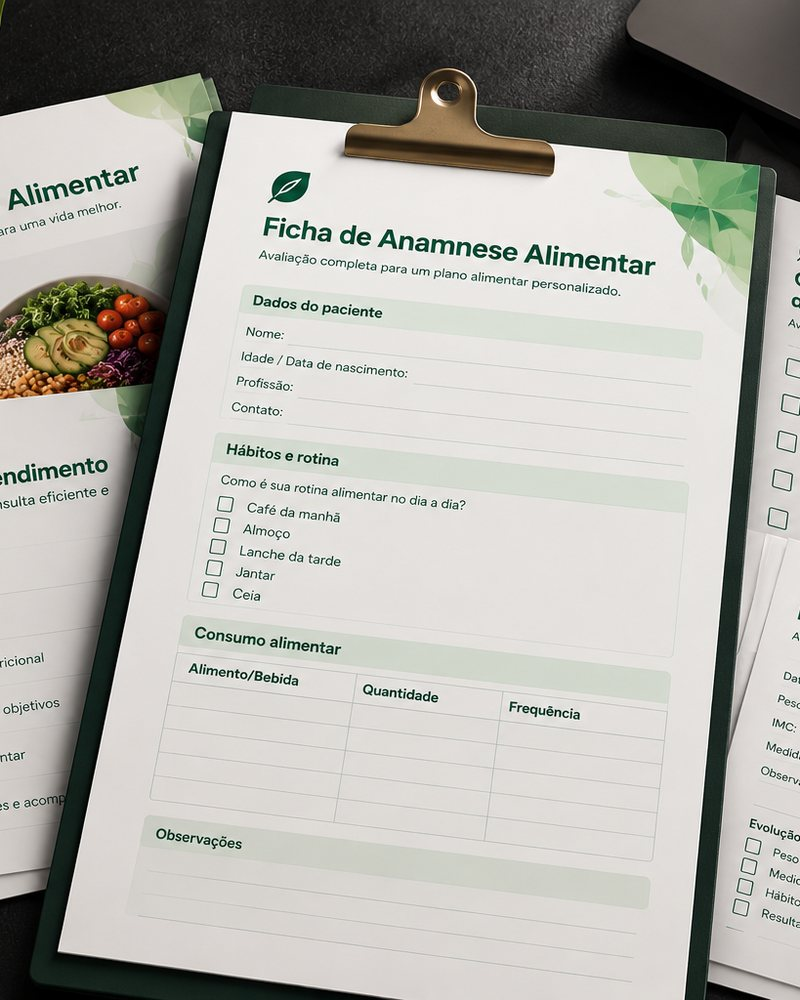
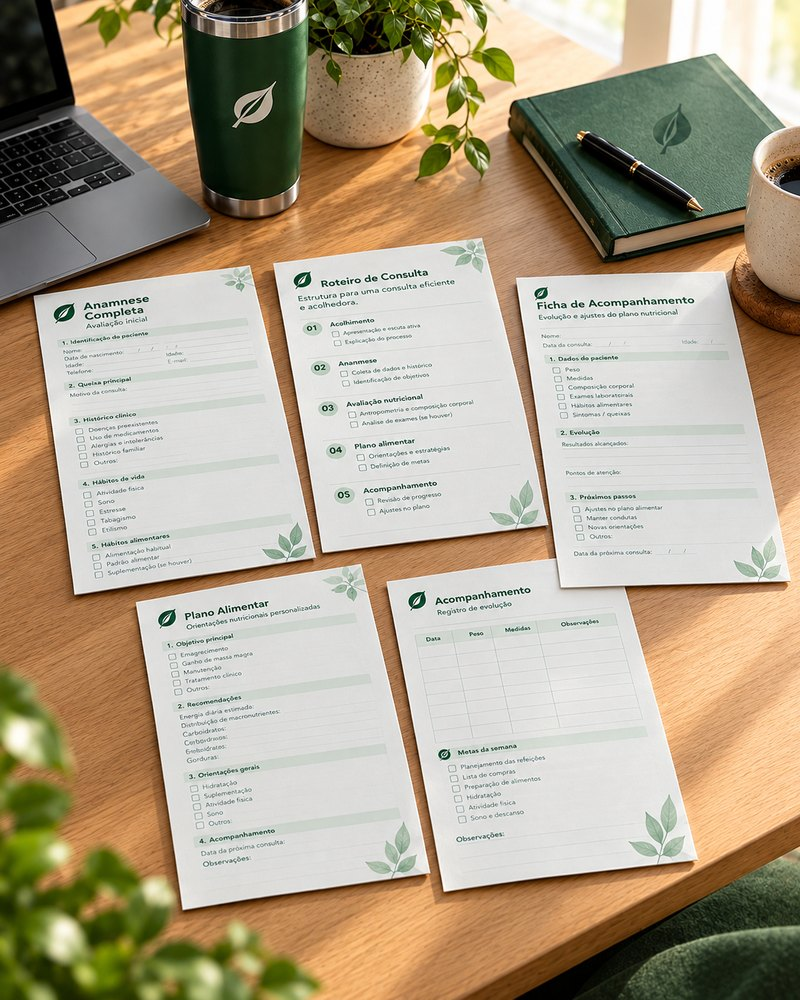
att prova social

diff --git a/index.html b/index.html
@@ -39,15 +39,18 @@ tailwind.config={theme:{extend:{colors:{bg:'var(--bg)',card:'var(--card)',ink:'v
 </header>
 
 <section id="topo" class="py-12 sm:py-16" style="background:linear-gradient(160deg,var(--h1),var(--bg) 60%)">
-  <div class="wrap grid md:grid-cols-[1.05fr_.95fr] gap-x-14 gap-y-8 items-center">
-    <div>
+  <div class="wrap hero-grid">
+    <div class="hero-head">
       <span class="eyebrow">+100 FERRAMENTAS PARA NUTRICIONISTAS</span>
       <h1 class="text-[38px] sm:text-[56px] font-bold leading-[1.05] mt-5 max-w-[560px] mx-auto text-center">Você não precisa criar cada documento do seu atendimento <span class="text-gt">do zero</span></h1>
-      <p class="mt-5 text-[15.5px] leading-relaxed text-gy max-w-[480px]">Anamneses, questionários, fichas de evolução, roteiros, checklists e outros materiais reunidos em um só lugar — prontos para consultar, adaptar, baixar e imprimir.</p>
-      <div class="mt-7"><a href="#planos" class="btn btn-p hero-cta">QUERO ORGANIZAR MEU ATENDIMENTO →</a>
-      <p class="mt-3.5 hero-sub text-gy">A partir de <strong class="text-ink text-base font-extrabold" data-p="basic"></strong> · Compra única · Acesso imediato</p></div>
     </div>
-    <div class="bg-card border border-bd rounded-[22px] p-3.5 w-full max-w-[460px] md:ml-auto mx-auto shadow-[0_30px_60px_-30px_rgba(18,38,27,.14)]"><img src="images/hero-kit.jpg" alt="Kit NutriPerformance: anamnese no tablet e ficha de composição corporal na prancheta, sobre a mesa de atendimento" class="block w-full rounded-[14px] aspect-[4/3] object-cover" width="1255" height="941"></div>
+    <div class="hero-img"><img src="images/hero-kit.jpg" alt="Kit NutriPerformance: anamnese no tablet e ficha de composição corporal na prancheta, sobre a mesa de atendimento" class="block w-full aspect-[16/11] object-cover" width="1255" height="941" fetchpriority="high"></div>
+    <div class="hero-body">
+      <p class="text-[15.5px] leading-relaxed text-gy max-w-[480px]">Anamneses, questionários, fichas de evolução, roteiros, checklists e outros materiais reunidos em um só lugar — prontos para consultar, adaptar, baixar e imprimir.</p>
+      <div class="mt-7"><a href="#planos" class="btn btn-p hero-cta">QUERO ORGANIZAR MEU ATENDIMENTO →</a>
+      <p class="mt-3.5 hero-sub text-gy"><strong class="text-ink text-base font-extrabold" data-p="full"></strong> · Compra única · Acesso imediato</p>
+      <p class="mt-1.5 text-[12.5px] font-semibold text-gt">✓ Garantia de 7 dias · Acesso vitalício</p></div>
+    </div>
   </div>
 </section>
 
@@ -57,19 +60,14 @@ tailwind.config={theme:{extend:{colors:{bg:'var(--bg)',card:'var(--card)',ink:'v
   <p class="text-center mt-8 text-gy font-medium">E esse é só o começo: o acesso completo reúne 108 documentos e mais de 10 bônus, mais de 100 ferramentas prontas, com acesso vitalício.</p>
 </div></section>
 
-<section class="sec"><div class="wrap">
-  <div class="sh"><div class="eyebrow tag">ONDE O KIT ENTRA NA SUA ROTINA</div><h2>Um kit para acompanhar cada etapa do atendimento</h2></div>
-  <div class="grid md:grid-cols-3 gap-[18px]">
-    <div class="card p-[26px]"><div class="w-[38px] h-[38px] rounded-[10px] bg-gs text-g flex items-center justify-center mb-4 font-bold">1</div><h3 class="text-sm font-bold mb-2">Antes da consulta</h3><p class="text-[13.8px] text-gy leading-relaxed">Envie questionários e chegue ao atendimento com informações importantes do paciente já organizadas.</p></div>
-    <div class="card p-[26px]"><div class="w-[38px] h-[38px] rounded-[10px] bg-gs text-g flex items-center justify-center mb-4 font-bold">2</div><h3 class="text-sm font-bold mb-2">Durante a consulta</h3><p class="text-[13.8px] text-gy leading-relaxed">Use roteiros e fichas para conduzir o atendimento e registrar as informações sem precisar criar tudo na hora.</p></div>
-    <div class="card p-[26px]"><div class="w-[38px] h-[38px] rounded-[10px] bg-gs text-g flex items-center justify-center mb-4 font-bold">3</div><h3 class="text-sm font-bold mb-2">No acompanhamento</h3><p class="text-[13.8px] text-gy leading-relaxed">Acompanhe evolução, reavaliações e fechamento de cada ciclo com ferramentas já estruturadas.</p></div>
+<section class="sec !py-9"><div class="wrap max-w-[760px]">
+  <div class="sh !mb-6"><h2>Um kit para acompanhar cada etapa do atendimento</h2></div>
+  <div class="card divide-y divide-bd overflow-hidden">
+    <div class="flex gap-4 items-start p-5"><div class="w-[34px] h-[34px] shrink-0 rounded-[10px] bg-gs text-g flex items-center justify-center font-bold">1</div><div><h3 class="text-[15px] font-bold">Antes da consulta</h3><p class="mt-1 text-[13.8px] text-gy leading-relaxed">Envie questionários e chegue com as informações do paciente já organizadas.</p></div></div>
+    <div class="flex gap-4 items-start p-5"><div class="w-[34px] h-[34px] shrink-0 rounded-[10px] bg-gs text-g flex items-center justify-center font-bold">2</div><div><h3 class="text-[15px] font-bold">Durante a consulta</h3><p class="mt-1 text-[13.8px] text-gy leading-relaxed">Use roteiros e fichas para conduzir o atendimento sem criar tudo na hora.</p></div></div>
+    <div class="flex gap-4 items-start p-5"><div class="w-[34px] h-[34px] shrink-0 rounded-[10px] bg-gs text-g flex items-center justify-center font-bold">3</div><div><h3 class="text-[15px] font-bold">No acompanhamento</h3><p class="mt-1 text-[13.8px] text-gy leading-relaxed">Acompanhe evolução, reavaliações e o fechamento de cada ciclo.</p></div></div>
   </div>
-  <div class="mt-5 rounded-[10px] border p-5 sm:px-6 flex flex-col md:flex-row md:items-center justify-between gap-5" style="background:var(--gs);border-color:var(--gs2)">
-    <div><h4 class="text-[16.5px] font-bold max-w-[420px] leading-snug text-ink">O raciocínio clínico continua sendo seu. O NutriPerformance cuida da organização.</h4>
-    <p class="mt-1.5 text-[13px] text-gy max-w-[440px]">Nenhum material traz plano alimentar pronto: são ferramentas para conduzir cada etapa com método.</p>
-    <p class="mt-2 text-xs font-semibold text-gt">+100 ferramentas · Acesso vitalício</p></div>
-    <a href="#planos" class="btn btn-p !py-3 !px-5 !text-[13.5px] md:whitespace-nowrap">QUERO AS +100 FERRAMENTAS →</a>
-  </div>
+  <p class="mt-5 text-center text-[14px] text-gy">O raciocínio clínico continua sendo seu. O NutriPerformance cuida da organização.</p>
 </div></section>
 
 <section id="oferta" class="sec"><div class="wrap max-w-[760px]">
@@ -93,9 +91,9 @@ tailwind.config={theme:{extend:{colors:{bg:'var(--bg)',card:'var(--card)',ink:'v
 <section class="sec"><div class="wrap">
   <div class="sh"><div class="eyebrow tag">SEM FILTRO</div><h2>O kit fora do computador</h2><p>Imprima, leve para a consulta e tenha tudo sempre disponível. Imagens ilustrativas.</p></div>
   <div class="grid grid-cols-2 md:grid-cols-[1.15fr_1fr_1fr] gap-3 md:gap-4">
-    <figure class="col-span-2 md:col-span-1 relative rounded-2xl overflow-hidden bg-gs min-h-[320px] aspect-[4/5] md:aspect-auto shadow-[0_18px_34px_-24px_rgba(18,38,27,.18)]"><img src="images/nutri-atendimento.jpg" alt="Nutricionista sorrindo enquanto preenche uma ficha na prancheta, com notebook, celular e caderno sobre a mesa" class="absolute inset-0 w-full h-full object-cover" style="object-position:50% 40%" width="720" height="1290" loading="lazy" decoding="async"><figcaption class="absolute inset-x-2 bottom-2 md:inset-x-2.5 md:bottom-2.5 bg-white/90 text-[#0A0A0A] text-xs font-semibold rounded-[10px] px-2 md:px-2.5 py-1.5">Atendimento organizado, do início ao fim</figcaption></figure>
-    <figure class="relative rounded-2xl overflow-hidden bg-gs"><img src="images/foto-fichas.jpg" alt="Fichas de anamnese esportiva do NutriPerformance impressas sobre a bancada" class="block w-full aspect-[4/5] object-cover" width="800" height="1000" loading="lazy" decoding="async"><figcaption class="absolute inset-x-2 bottom-2 md:inset-x-2.5 md:bottom-2.5 bg-white/90 text-[#0A0A0A] text-xs font-semibold rounded-[10px] px-2 md:px-2.5 py-1.5">Fichas prontas para imprimir</figcaption></figure>
-    <figure class="relative rounded-2xl overflow-hidden bg-gs"><img src="images/foto-mesa.jpg" alt="Ficha de anamnese em uma prancheta, cercada por roteiro de atendimento, checklist e registro de evolução sobre a mesa" class="block w-full aspect-[4/5] object-cover" width="800" height="1000" loading="lazy" decoding="async"><figcaption class="absolute inset-x-2 bottom-2 md:inset-x-2.5 md:bottom-2.5 bg-white/90 text-[#0A0A0A] text-xs font-semibold rounded-[10px] px-2 md:px-2.5 py-1.5">Tudo organizado na mesa</figcaption></figure>
+    <figure class="col-span-2 md:col-span-1 relative rounded-2xl overflow-hidden bg-gs min-h-[320px] aspect-[4/5] md:aspect-auto shadow-[0_18px_34px_-24px_rgba(18,38,27,.18)]"><img src="images/nutri-atendimento.jpg" alt="Nutricionista sorrindo enquanto analisa uma ficha impressa, com notebook e caderno sobre a mesa" class="absolute inset-0 w-full h-full object-cover" style="object-position:50% 30%" width="720" height="1290" loading="lazy" decoding="async"><figcaption class="absolute inset-x-2 bottom-2 md:inset-x-2.5 md:bottom-2.5 bg-white/90 text-[#0A0A0A] text-xs font-semibold rounded-[10px] px-2 md:px-2.5 py-1.5">Atendimento organizado, do início ao fim</figcaption></figure>
+    <figure class="relative rounded-2xl overflow-hidden bg-gs"><img src="images/foto-fichas.jpg" alt="Anamnese completa, roteiro de consulta e checklist impressos sobre uma pasta verde" class="block w-full aspect-[4/5] object-cover" width="800" height="1000" loading="lazy" decoding="async"><figcaption class="absolute inset-x-2 bottom-2 md:inset-x-2.5 md:bottom-2.5 bg-white/90 text-[#0A0A0A] text-xs font-semibold rounded-[10px] px-2 md:px-2.5 py-1.5">Fichas prontas para imprimir</figcaption></figure>
+    <figure class="relative rounded-2xl overflow-hidden bg-gs"><img src="images/foto-mesa.jpg" alt="Anamnese, roteiro de consulta, ficha de acompanhamento e registro de evolução organizados sobre a mesa" class="block w-full aspect-[4/5] object-cover" width="800" height="1000" loading="lazy" decoding="async"><figcaption class="absolute inset-x-2 bottom-2 md:inset-x-2.5 md:bottom-2.5 bg-white/90 text-[#0A0A0A] text-xs font-semibold rounded-[10px] px-2 md:px-2.5 py-1.5">Tudo organizado na mesa</figcaption></figure>
   </div>
 </div></section>
 

diff --git a/css/style.css b/css/style.css
@@ -72,3 +72,23 @@ a:focus-visible,summary:focus-visible,.btn:focus-visible{outline:3px solid var(-
 body>section.sec:nth-of-type(even){background:#fff;border-block:1px solid var(--bd)}
 body>section.sec:nth-of-type(even) .card{background:#F6F9F7}
 body>section.sec:nth-of-type(even) .card.hl,body>section.sec:nth-of-type(even) .card[class*="border-g"]{background:#fff}
+
+/* hero: no celular a imagem do kit aparece logo abaixo do título, antes do botão */
+.hero-grid{display:grid;grid-template-columns:minmax(0,1fr);gap:1.25rem}
+.hero-grid>*{min-width:0}
+@media(min-width:768px){
+  .hero-grid{grid-template-columns:minmax(0,1.05fr) minmax(0,.95fr);grid-template-areas:"head img" "body img";column-gap:3.5rem;row-gap:1.5rem;align-items:center}
+  .hero-head{grid-area:head;align-self:end}
+  .hero-img{grid-area:img}
+  .hero-body{grid-area:body;align-self:start}
+}
+
+/* prova social (só aparece quando houver prints reais em PROVAS no js/main.js) */
+.proof-card{flex-shrink:0;width:190px;margin-right:.875rem;border-radius:1rem;overflow:hidden;background:var(--card);border:1px solid var(--bd);box-shadow:0 10px 24px -16px rgba(18,38,27,.22)}
+.proof-card img{display:block;width:100%;height:auto}
+@media(min-width:768px){.proof-card{width:230px;margin-right:1.25rem}}
+
+/* imagem do hero: sem moldura branca, integrada ao fundo verde claro */
+.hero-img{width:100%;max-width:460px;margin-inline:auto;border-radius:24px;overflow:hidden;position:relative;box-shadow:0 0 0 1px rgba(30,138,69,.16),0 28px 60px -28px rgba(23,117,58,.38)}
+.hero-img:after{content:"";position:absolute;inset:0;border-radius:inherit;pointer-events:none;background:linear-gradient(180deg,rgba(217,237,223,.10),rgba(241,245,242,0) 35%,rgba(18,38,27,0) 70%,rgba(241,245,242,.10));box-shadow:inset 0 0 0 1px rgba(255,255,255,.08)}
+@media(min-width:768px){.hero-img{margin-left:auto}}

diff --git a/js/main.js b/js/main.js
@@ -40,3 +40,18 @@ $('bb').addEventListener('click',e=>{if(shown||e.ctrlKey||e.metaKey||e.shiftKey|
 const sb=$('sb'),vis={topo:1,planos:0,fim:0};
 const upd=()=>{const on=!vis.topo&&!vis.planos&&!vis.fim;sb.classList.toggle('show',on);sb.inert=!on};
 if('IntersectionObserver' in window)Object.keys(vis).forEach(k=>{const el=$(k);if(el)new IntersectionObserver(([x])=>{vis[k]=x.isIntersecting?1:0;upd()}).observe(el)});
+
+// Prova social: prints/depoimentos de compradores em images/provas/. Lista vazia = seção oculta.
+const PROVAS=[
+  {src:'images/provas/depoimento-1.jpg',alt:'Conversa de WhatsApp com uma nutricionista sobre o guia de conduta e o checklist de anamnese'},
+  {src:'images/provas/depoimento-2.jpg',alt:'Conversa de WhatsApp sobre o roteiro de consulta e os checklists'},
+  {src:'images/provas/depoimento-3.jpg',alt:'Conversa de WhatsApp sobre o roteiro de consulta e a anamnese'},
+  {src:'images/provas/depoimento-4.jpg',alt:'Conversa de WhatsApp perguntando se o kit vale a pena'},
+  {src:'images/provas/depoimento-5.jpg',alt:'Conversa de WhatsApp sobre a organização das consultas'},
+];
+if(PROVAS.length){
+  const pc=(d,x)=>`<div ${x?'aria-hidden="true"':''} class="proof-card"><img src="${d.src}" alt="${x?'':d.alt}" loading="lazy" decoding="async"></div>`;
+  const sec=document.createElement('section');sec.className='sec';sec.id='prova';
+  sec.innerHTML=`<div class="wrap"><div class="sh"><div class="eyebrow tag">QUEM JÁ USA</div><h2>O que dizem os nutricionistas que usam o kit</h2></div><div class="mq"><div class="track" style="animation-duration:${Math.max(30,PROVAS.length*8)}s">${PROVAS.map(d=>pc(d,0)).concat(PROVAS.map(d=>pc(d,1))).join('')}</div></div></div>`;
+  const prev=$('mat').closest('section');prev.parentNode.insertBefore(sec,prev.nextSibling);
+}

diff --git a/CATALOGO.md b/CATALOGO.md
@@ -23,7 +23,7 @@ Pilha (soma R$297,00): Kit Esportivo R$69,90 + Complemento (3 linhas) R$79,90 + 
 Proposta original adaptada: "+100 ferramentas prontas, incluindo anamneses, questionários, fichas de evolução e roteiros, para preparar cada consulta em minutos". DISC, Eneagrama e Big Five não entram: não fazem parte deste produto.
 
 ## 4. Mapa de seções
-Header · Hero (`#topo`) · Prévia (carrossel de 21 capas) · 3 momentos + callout · Oferta completa · Sem filtro (3 imagens) · Planos (`#planos`) + comparação · Garantia 7 dias · FAQ (8) · Último passo (`#fim`) + rodapé · Barra fixa de CTA (mobile). A seção de depoimentos e prints foi removida · Popup de upsell.
+Header · Hero (`#topo`) · Prévia (carrossel de 21 capas) · 3 momentos + callout · Oferta completa · Sem filtro (3 imagens) · Planos (`#planos`) + comparação · Garantia 7 dias · FAQ (8) · Último passo (`#fim`) + rodapé · Barra fixa de CTA (mobile). Prova social (prints reais em `images/provas/`, lista `PROVAS` no `js/main.js`) · Popup de upsell.
 
 ## 5. Pendências
 - Imagens: todas as da página estão preenchidas (ver `LISTA-IMAGENS.md`).
